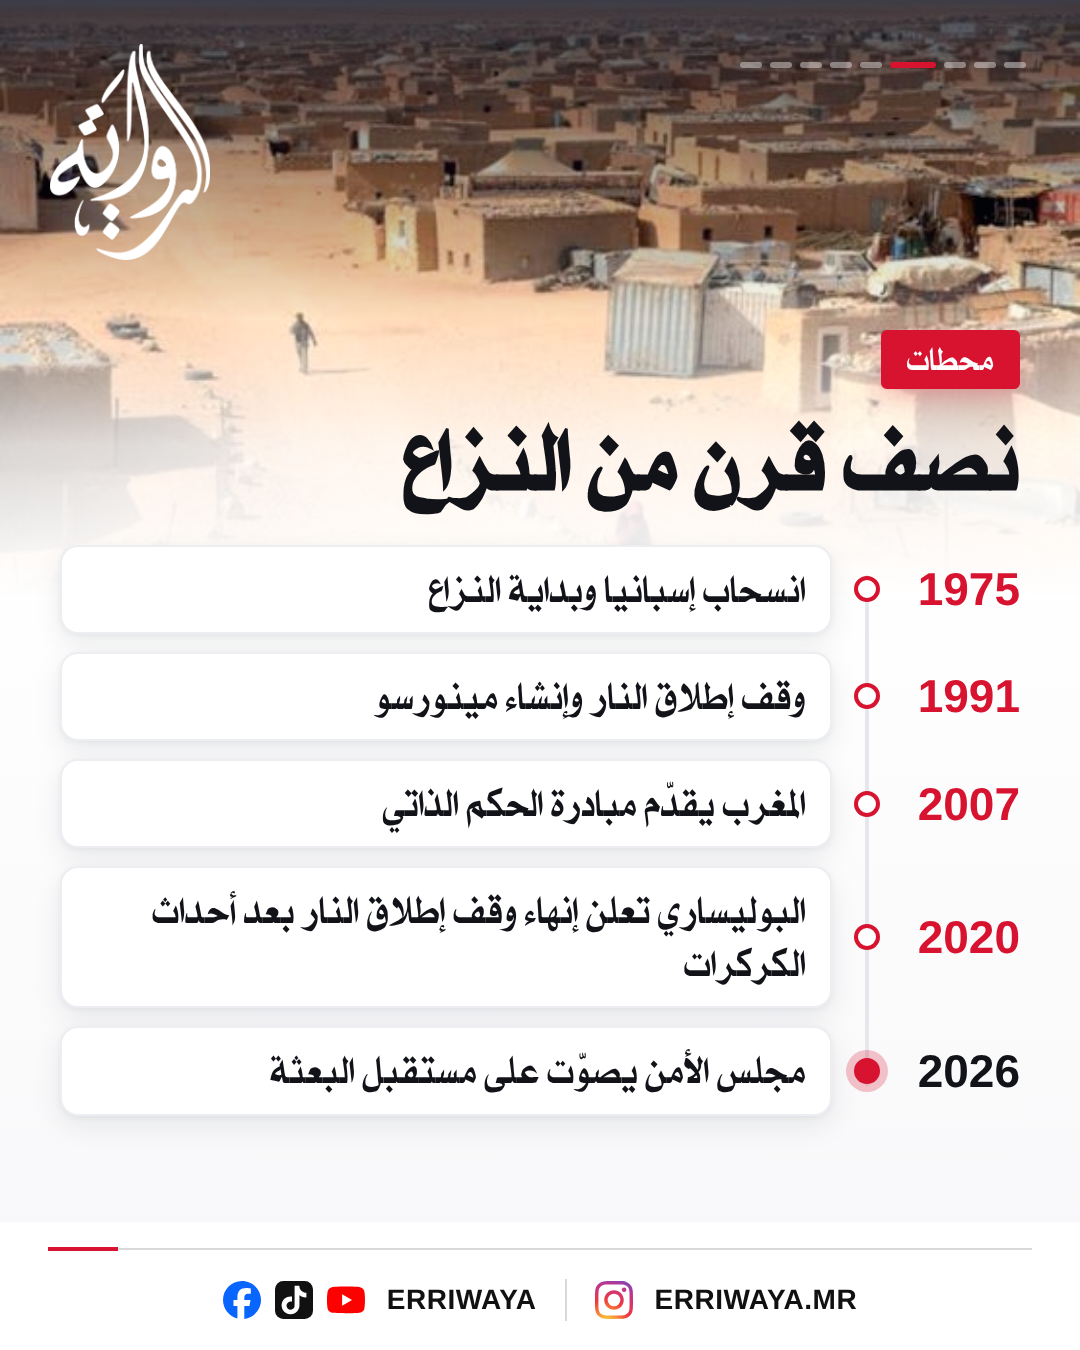
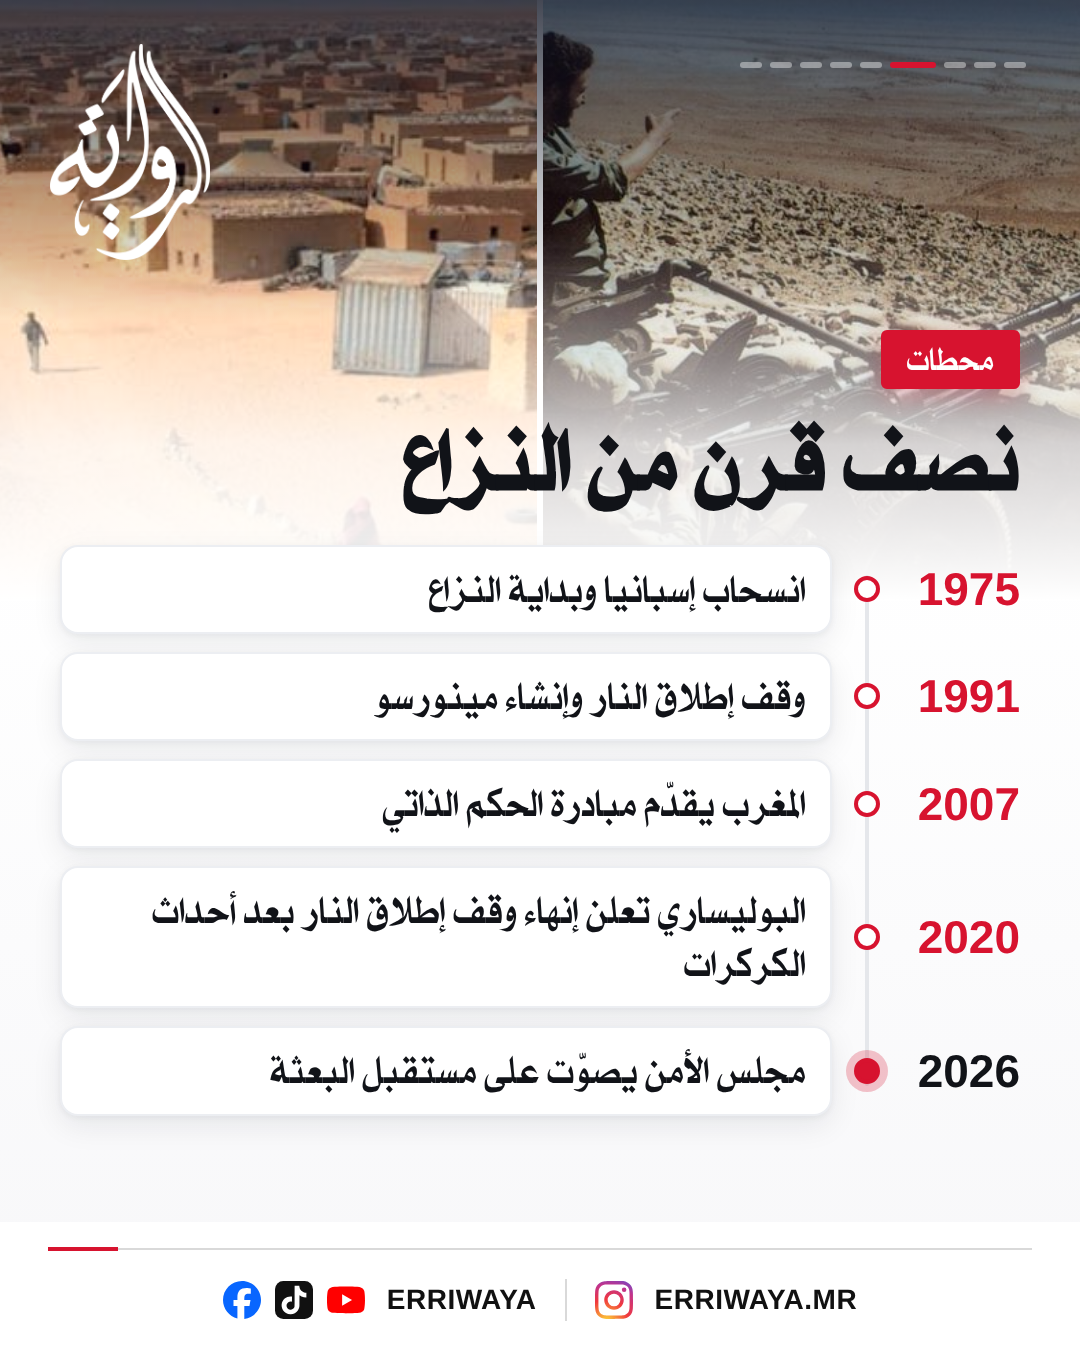
MINURSO carousel: add ballot, Capitol and 1970s conflict photos
Claude-Session: https://claude.ai/code/session_01S8ECGBwohQoomeMp3zGTaV

Changed region(s): [[0.0, 0.0, 1.0, 0.3733]]

diff --git a/carousels/2026-10-29-minurso/carousel.html b/carousels/2026-10-29-minurso/carousel.html
@@ -128,7 +128,7 @@
 
 <!-- 3 · what is MINURSO -->
 <section class="slide">
-  <div class="photo"><img src="img/minurso.webp" style="object-position:62% 50%"></div>
+  <div class="photo"><img src="img/minurso.webp" style="object-position:62% 50%"><img src="img/ballot.jpg" style="object-position:55% 45%"></div>
   <div class="body">
     <span class="kick">خلفية</span>
     <h1>ما هي مينورسو؟</h1>
@@ -143,7 +143,7 @@
 
 <!-- 4 · timeline -->
 <section class="slide">
-  <div class="photo" style="height:600px"><img src="img/camps.jpg" style="object-position:50% 40%"></div>
+  <div class="photo" style="height:600px"><img src="img/war-1970s.jpg" style="object-position:30% 50%"><img src="img/camps.jpg" style="object-position:50% 40%"></div>
   <div class="body" style="top:330px">
     <span class="kick">محطات</span>
     <h1>نصف قرن من النزاع</h1>
@@ -174,7 +174,7 @@
 
 <!-- 6 · the US draft -->
 <section class="slide">
-  <div class="photo" style="height:560px"><img src="img/unsc-chamber.jpg" style="object-position:5% 50%"></div>
+  <div class="photo" style="height:560px"><img src="img/us-capitol.webp" style="object-position:60% 40%"></div>
   <div class="body" style="top:330px">
     <span class="kick">المسودة الأمريكية</span>
     <h1>ماذا تقترح واشنطن؟</h1>
